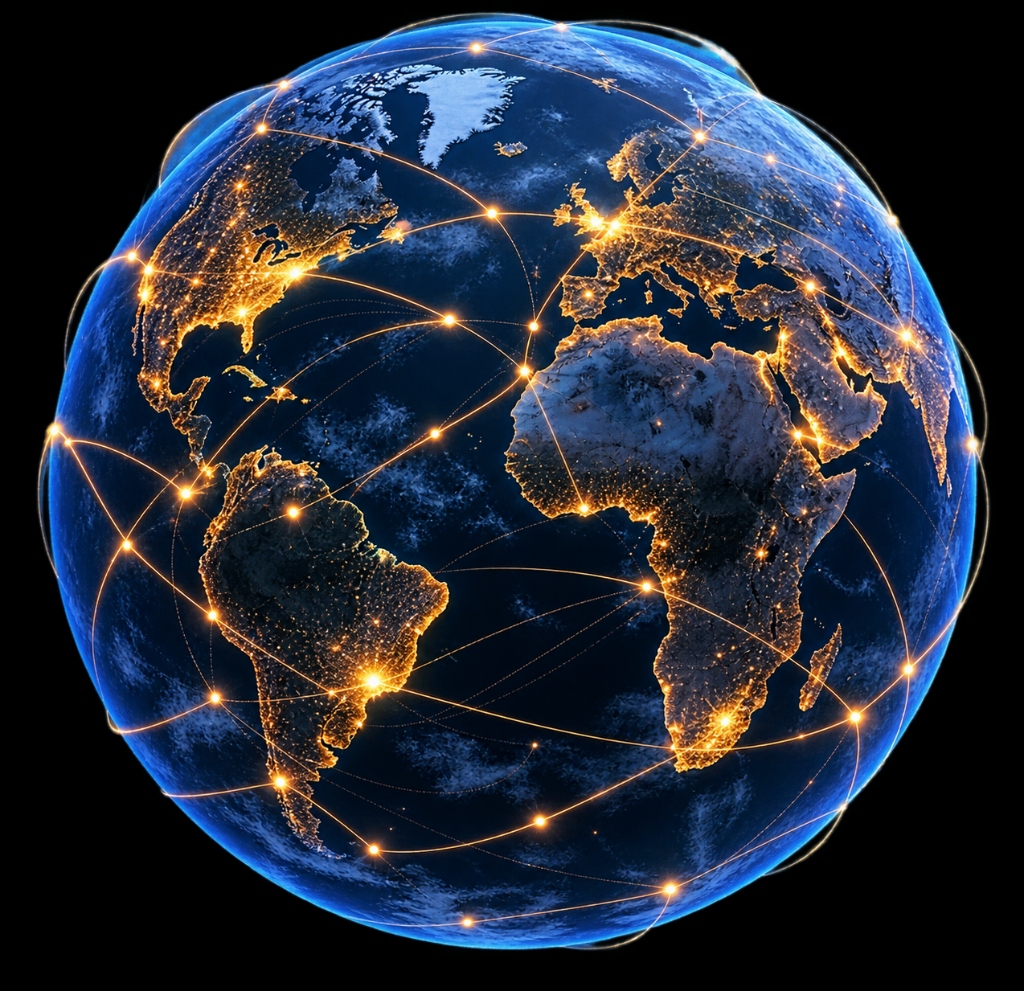
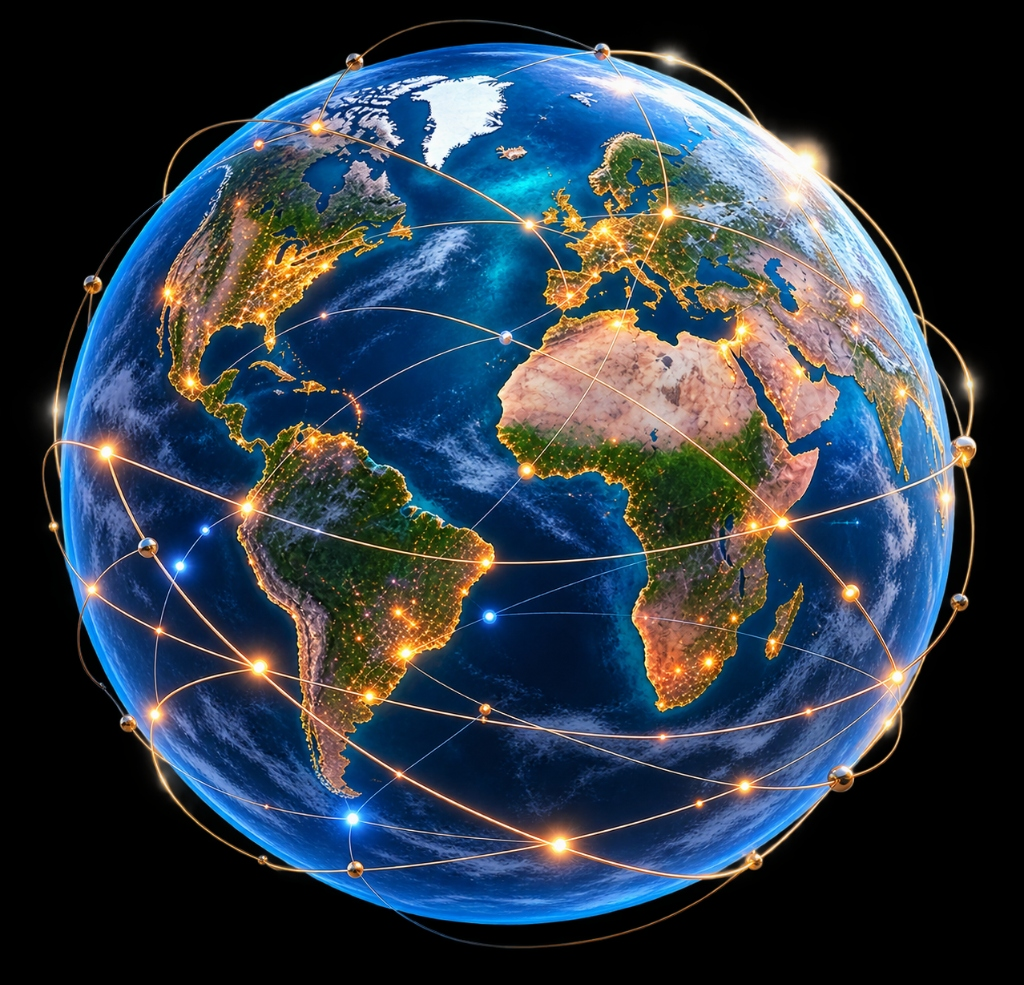
Update globe with exact photorealistic earth asset and aligned country badges

diff --git a/src/components/ui/globe/UnitedCarriersGlobe.tsx b/src/components/ui/globe/UnitedCarriersGlobe.tsx
@@ -18,48 +18,48 @@ const COUNTRY_BADGES: CountryBadge[] = [
     name: "USA & CANADA",
     region: "TIER-1 JURISDICTION",
     minerals: "GOLD • COPPER • CRITICAL MINERALS",
-    top: "29%",
-    left: "22%",
+    top: "27%",
+    left: "25%",
   },
   {
     id: "sa",
     name: "CHILE & PERU",
     region: "GLOBAL COPPER BELT",
     minerals: "COPPER • LITHIUM • SILVER",
-    top: "66%",
-    left: "27%",
+    top: "64%",
+    left: "34%",
   },
   {
     id: "eu",
     name: "SWEDEN & FINLAND",
     region: "NORDIC BATTERY METALS",
     minerals: "IRON ORE • NICKEL • RARE EARTHS",
-    top: "18%",
-    left: "62%",
+    top: "16%",
+    left: "58%",
   },
   {
     id: "afr",
     name: "SOUTH AFRICA",
     region: "STRATEGIC MINERAL BASIN",
     minerals: "PGM • MANGANESE • GOLD",
-    top: "72%",
-    left: "68%",
+    top: "68%",
+    left: "67%",
+  },
+  {
+    id: "me",
+    name: "SAUDI & MIDDLE EAST",
+    region: "CRITICAL MINERALS CORRIDOR",
+    minerals: "PHOSPHATE • GOLD • COPPER",
+    top: "37%",
+    left: "75%",
   },
   {
     id: "asia",
-    name: "MONGOLIA & CENTRAL ASIA",
-    region: "OREBELT CORRIDOR",
+    name: "CENTRAL ASIA & MONGOLIA",
+    region: "OREBELT BASIN",
     minerals: "COPPER • GOLD • URANIUM",
-    top: "27%",
+    top: "23%",
     left: "81%",
-  },
-  {
-    id: "aus",
-    name: "WESTERN AUSTRALIA",
-    region: "PREMIER RESOURCE HUB",
-    minerals: "IRON ORE • GOLD • LITHIUM",
-    top: "65%",
-    left: "88%",
   },
 ];
 
